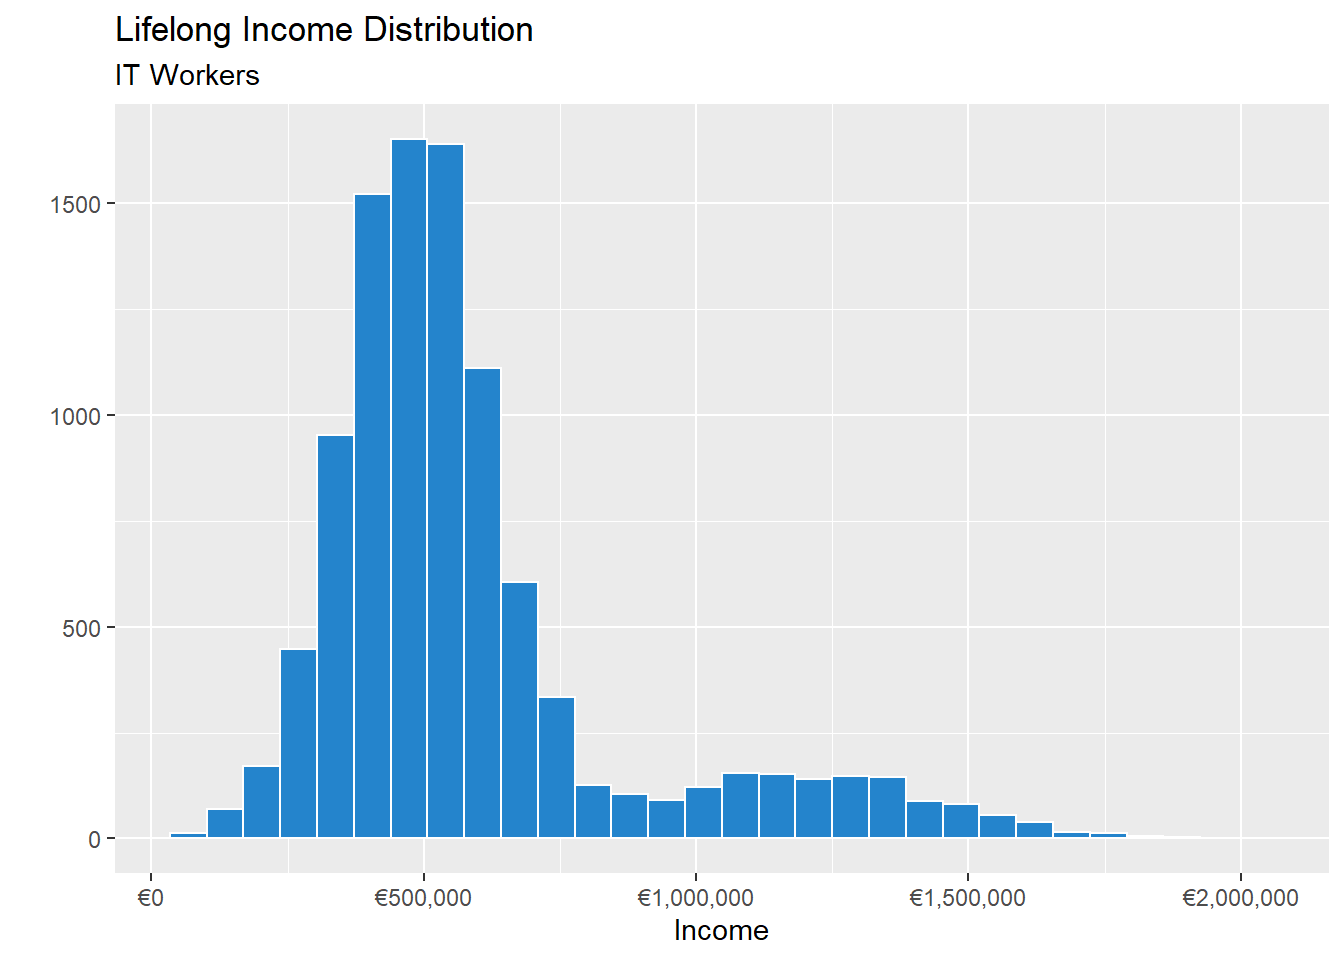
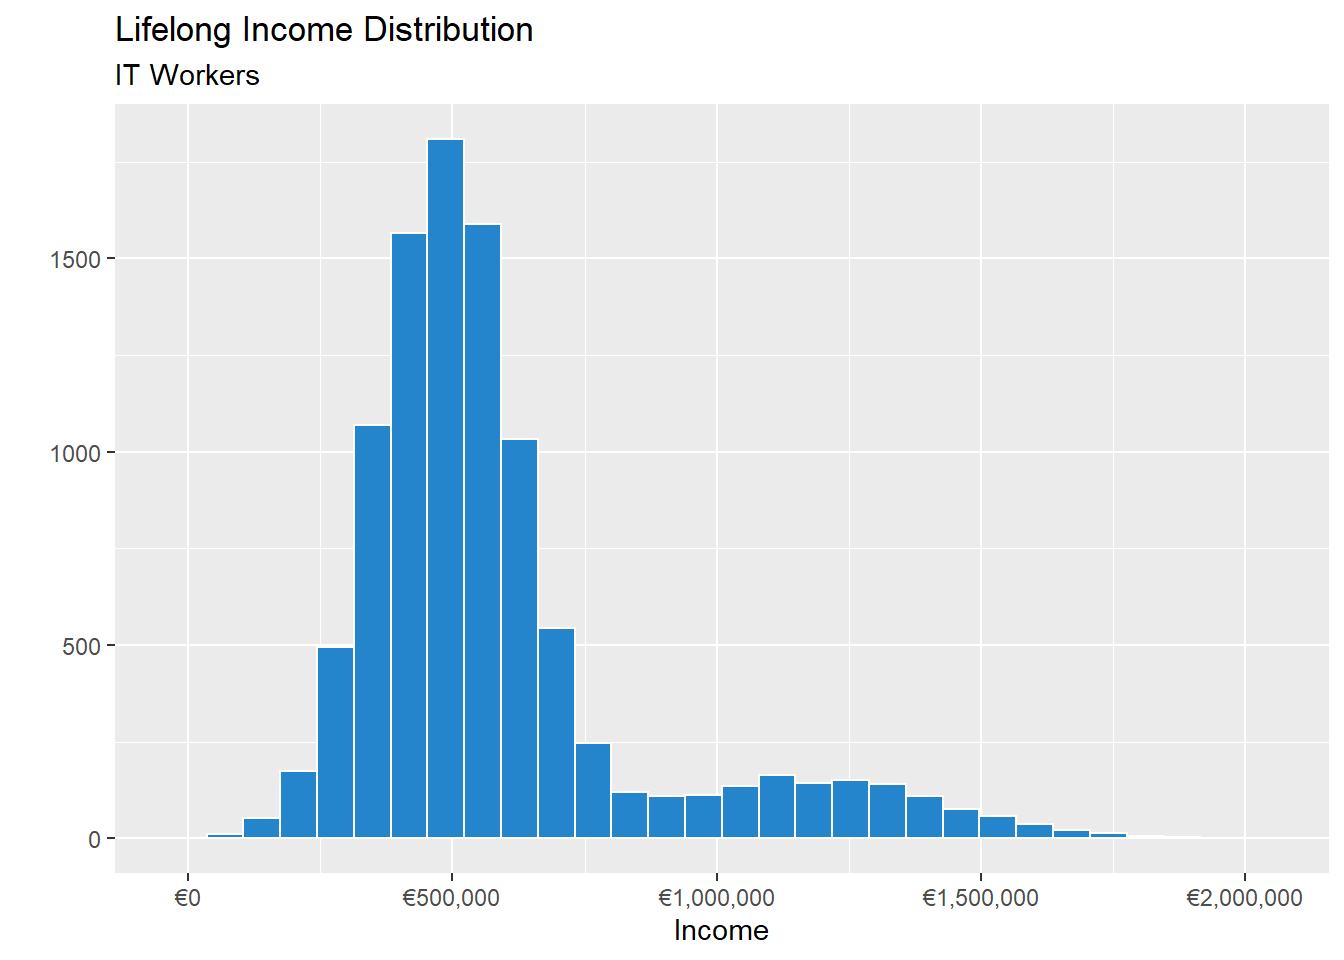
Decision making in uncertainty - WIP

diff --git a/content/post/2021-03-18-decision-making-with-uncertainty/index.en.html b/content/post/2021-03-18-decision-making-with-uncertainty/index.en.html
@@ -177,7 +177,7 @@ dr_sal_final &lt;- dr_sal_final / 5  </code></pre>
 </div>
 <div id="part-of-the-it-crowd" class="section level2">
 <h2>Part of the IT Crowd</h2>
-<p>Fortnately for me, Romania has one of the most active IT sectors in this part of Europe and it is expanding continuously. This is a good thing for someone looking to start on this career path because it offers a lot of opportunities</p>
+<p>Fortnately for me, Romania has one of the most active IT sectors in this part of Europe and it is expanding continuously. This is a good thing for someone looking to start on this career path because it offers a lot of opportunities.</p>
 <hr />
 <p>Romania has one of the most active IT sectors in Eastern Europe and it is expanding continuously which is a good thing because one will not have problems ending up in an IT job if he wants to. We will just need some data on the salaries of the IT crowd. A beautiful analysis on 1,267 salaries can be seen <a href="https://www.averagesalarysurvey.com/romania">here</a>.</p>
 <p>The sample is large enough to give us a good estimate of what the population actually looks like. We can see that the data is a bit skewed and slightly more people are just under the mean when it comes to income. This is due to the fact that managers and directors have very high salaries and they move the average up. This can be easily fixed, we just need to estimate what percentage of people working in IT are managers or directors and and account for that.</p>
@@ -190,7 +190,7 @@ it_sal_dist &lt;- c(it_sal_low, it_sal_high)
 
 # We want to make sure the mean of our distribution if not far off from the actual distribution
 mean(it_sal_dist)</code></pre>
-<pre><code>#&gt; [1] 112857.7</code></pre>
+<pre><code>#&gt; [1] 112908</code></pre>
 <p>We can see the average salary of our distribution is quite close to the one from the website, so we can say that our distribution closely resembles the sampled population from the site. Salary distribution looks like below:</p>
 <pre class="r"><code>it_sal_dist %&gt;% 
   histogram() +
@@ -277,8 +277,8 @@ poker_players &lt;- c(avg_player, elt_player)</code></pre>
 <p>This distribution seems legit for a power law distribution. And now, for the final touch, we will need to add the 10% chance to become a professional player. We will do this by using the list we have created earlier. For this we will create a binomial distribution with a 10% probability and a size 1. Basically we can create a random string of values, either 1 or 0 and about 10% are one. Let’s see it in practice.</p>
 <pre class="r"><code>success_prob &lt;- rbinom(n = 10000, size = 1, prob = 0.1)
 print(sum(success_prob) / 10000)</code></pre>
-<pre><code>#&gt; [1] 0.0985</code></pre>
-<p>Perfect, 9.85% is exactly what we would expect.</p>
+<pre><code>#&gt; [1] 0.0974</code></pre>
+<p>Perfect, 9.74% is exactly what we would expect.</p>
 <p>Now all we need to do is multiply the two lists. When a value in the second list is 0 it will transform the earnings to 0, so we did not make it as a professional poker player. When it is 1 the result will not be affected.</p>
 <pre class="r"><code>poker_players_final &lt;- poker_players * success_prob</code></pre>
 <p>Now that we painfully and to the best of our knowledge created the populations, let’s proceed in analysing the data.</p>
